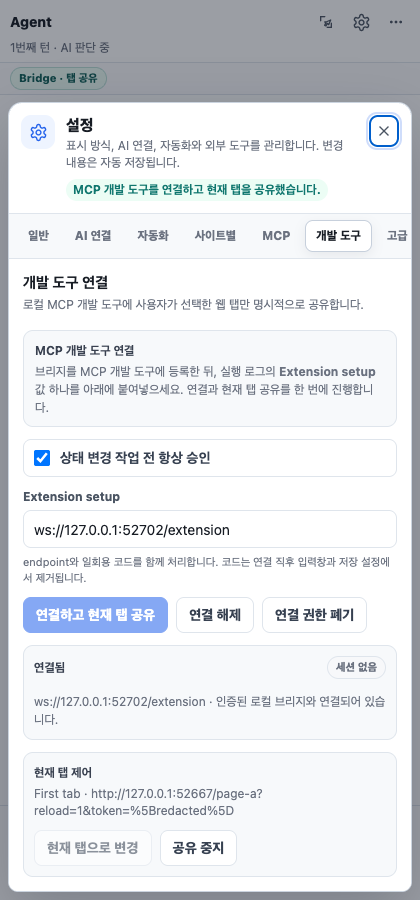
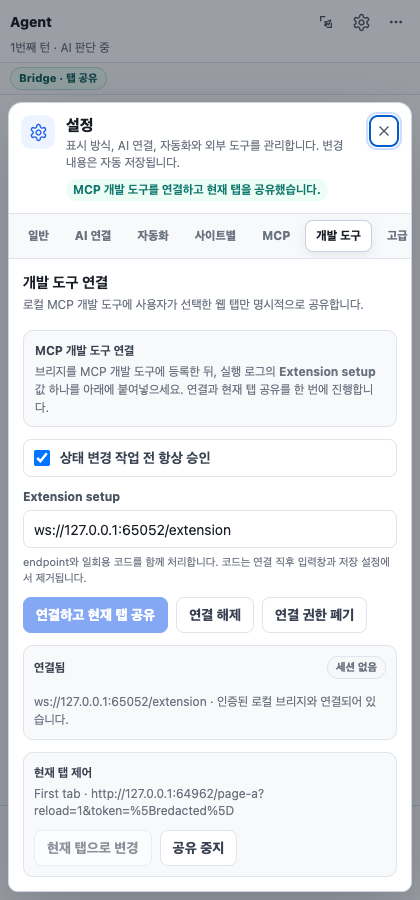
Refresh usage guide and verified captures

diff --git a/README.md b/README.md
@@ -1,10 +1,22 @@
 # My Assistant Web Plugin
 
-A Manifest V3 browser extension that observes the active page, plans the next action for a natural-language goal, executes approved tools or page actions, and verifies the resulting state.
+A Manifest V3 browser extension that turns a configured language model into a bounded browser agent. It observes the active page, plans the next action for a natural-language goal, executes approved tools or page actions, and verifies the resulting state before reporting completion.
 
 ![Agent side panel](docs/assets/agent-panel.png)
 
-Version `0.9.0` targets Chromium-based browsers version 116 or later. This repository contains a source-loaded development build rather than a store package.
+Version `0.9.0` with Bridge protocol `2.2` targets Chromium-based browsers version 116 or later. This repository contains a source-loaded development build rather than a store package. The screenshots in this README were regenerated from the current version with a temporary browser profile and local fixtures.
+
+## Choose the workflow
+
+The extension has three related but distinct integration paths:
+
+| What you want to do | Use | Where the model runs | Does it control the page? |
+| --- | --- | --- | --- |
+| Give browser tasks directly in the extension | **Built-in agent** | At the AI endpoint configured in **Settings → AI 연결** | Yes, through the extension's observe → approve → act → verify loop |
+| Let a local MCP-capable development tool use the current browser tab | **Local Bridge** | In the external development tool; visual targeting uses the extension's configured model | Yes, but only for the tab explicitly shared in **Settings → 개발 도구** |
+| Let the built-in agent call a remote tool server | **Outbound MCP client** | At the configured AI endpoint | No direct browser sharing; it calls the configured Streamable HTTP MCP tools |
+
+The Bridge is not required for normal use of the built-in agent. Conversely, enabling outbound MCP does not register this browser extension in a development tool; that is the Bridge's job.
 
 ## Why this project exists
 
@@ -46,6 +58,10 @@ Completion is not accepted from model prose alone. The runtime issues evidence i
 - Records privacy-preserving AI request audit metadata
 - Treats an HTTP success with no usable output as an explicit failure
 
+The **Context** inspector shows what the current browser observation actually contains: visible text and controls, mapped frames, nested scroll regions, visual surfaces, automation constraints, selection, and recent logs. It is useful for distinguishing a model-planning problem from a browser-permission or page-structure boundary.
+
+![Context inspector populated by the real-browser compatibility fixture](docs/assets/web-compatibility.png)
+
 ## API profiles
 
 | Profile | Purpose | Structured response strategy |
@@ -71,16 +87,49 @@ Custom JSON templates may use the following values:
 
 When `Response path` is empty, the extension dynamically inspects common response structures for usable text.
 
-## Installation
+## Quick start: built-in agent
 
-1. Clone or download the repository.
-2. Open the extension management page in a supported Chromium-based browser.
+### Requirements
+
+- Chromium-based browser version 116 or later
+- An AI endpoint compatible with one of the profiles above
+- A model that can reliably return structured JSON decisions
+- Image input support on that endpoint only when screenshot reasoning or visual-surface actions are needed
+
+Node.js is not required to load and use the extension itself. Node.js 20 or later is required for the local Bridge, tests, and documentation capture.
+
+### 1. Load the extension
+
+1. Clone or download this repository.
+2. Open the browser's extension management page.
 3. Enable developer mode.
 4. Choose **Load unpacked**.
-5. Select the repository root.
-6. Select the extension action. The default workspace is the side panel; **Settings → 일반** can switch the action to a reusable full tab.
+5. Select the repository root: the directory containing `manifest.json`.
+6. Pin or select the extension action. The default workspace opens in the side panel.
 
-In the **AI 연결** settings tab, configure the API format, endpoint, model, and authentication header. Authentication values are session-only by default and are persisted only when the user explicitly enables persistent storage.
+After pulling a newer source revision, return to the extension management page and select **Reload** for this extension. A source-loaded extension does not update itself.
+
+### 2. Connect a model
+
+Open **Settings → AI 연결** and configure:
+
+1. **API format** matching the endpoint protocol.
+2. **Endpoint URL** and **Model**.
+3. The authentication header name and value required by the endpoint.
+4. A custom request template and response path only when using **Custom JSON**.
+5. **Connection test** before starting a browser task.
+
+Authentication values are session-only by default and are persisted only when the user explicitly enables persistent storage. The endpoint must support the selected structured-response strategy. If visual targeting is expected, enable screenshots and confirm that the selected model accepts image input.
+
+### 3. Run and verify a task
+
+1. Open a normal web page and then open the extension.
+2. Enter a complete goal, including the result or evidence you expect.
+3. Review approval cards for state-changing, sensitive, or externally visible effects.
+4. Keep the target tab open while the task runs.
+5. Check the final answer and **작업 흐름** card. A task is complete only after the extension has re-observed the result and verified the returned evidence.
+
+The agent can dynamically request another visible-control window with a `discover` decision. It searches accessible labels, roles, safe attributes, and nearby table/row/form/dialog/region text locally, similar to using a targeted source search instead of loading an entire file. Only matched control descriptors are sent to the model. If the target is outside the viewport, the agent must scroll and observe again; local search does not expose offscreen or hidden content.
 
 ## Settings and workspace placement
 
@@ -129,26 +178,162 @@ This is the extension's outbound MCP client. To let an MCP-capable local develop
 
 ## External developer-tool bridge
 
-The recommended bridge path is a standard local `stdio` MCP server. The development tool starts the companion itself, so its MCP configuration does not need a separately copied URL or bearer token. Generate a client-neutral JSON entry with the actual runtime and server paths detected on the current machine:
+The Bridge lets an MCP-capable local development tool operate one browser tab that the user explicitly shares. It does not expose a raw browser-debugging port. The extension remains responsible for page observation, redaction, action validation, approval, execution, and result verification.
+
+```mermaid
+flowchart LR
+    C["MCP development tool"] -->|"stdio"| B["Local companion"]
+    B -->|"Authenticated loopback WebSocket"| E["Extension"]
+    E -->|"Observe and act"| T["One shared tab"]
+    E -->|"Approval card"| U["User"]
+    U -->|"Approve or reject"| E
+```
+
+### Bridge requirements
+
+- Node.js 20 or later
+- This extension loaded and enabled in a Chromium-based browser
+- An MCP client that can start a local `stdio` server; Streamable HTTP is available as a fallback
+- Loopback connections permitted on the machine
+
+### Recommended setup: stdio
+
+The recommended path is a standard local `stdio` MCP server. The development tool starts and stops the companion as its child process, so there is no separate daemon to launch and no bearer token to copy into the client.
+
+From the repository root:
 
 ```bash
 npm install
 npm run bridge:config
 ```
 
-`pnpm install` and `pnpm run bridge:config` are equivalent when pnpm is available. npm is fully supported; the package manifest carries the same vulnerable-transitive-version overrides as the pnpm workspace configuration.
+`npm` is fully supported. If `pnpm` is not installed, do not install it just for the Bridge; use the commands above. When pnpm is already available, `pnpm install` and `pnpm run bridge:config` are equivalent.
 
-Merge the printed server entry into the development tool's documented MCP configuration and restart that tool. On first use, the companion prints one short-lived `Extension setup` value. Paste that value into **Settings → Bridge** and select **연결하고 현재 탭 공유**. The extension strips the one-time code before saving the endpoint, and the companion remembers its selected loopback port so later launches normally reconnect without configuration changes while the browser-side credential remains available.
+`bridge:config` detects the current Node.js executable and companion file and prints a client-neutral entry:
 
-The default MCP surface is intentionally guided: `browser_begin` returns the first redacted snapshot, `browser_elements` retrieves relevant visible controls with `query`, `roles`, and `near_text` before falling back to an opaque cursor, `browser_act` submits DOM actions, `browser_visual_act` requests extension-owned targeting for a canvas or application surface, `browser_continue` handles approval polling and refreshed observations, and `browser_end` releases the tab. The built-in model uses the same local retrieval layer through a structured `discover` decision. Existing identifier-based tools remain available with `--advanced-tools`. Actions that need approval still appear in the extension, which reconstructs the exact search window and validates target preconditions immediately before an approved effect.
+```json
+{
+  "mcpServers": {
+    "my-assistant-web": {
+      "command": "<ABSOLUTE_NODE_EXECUTABLE>",
+      "args": ["<ABSOLUTE_REPOSITORY_PATH>/bridge/server.mjs", "--stdio"]
+    }
+  }
+}
+```
 
-Clients that support only Streamable HTTP can run `npm run bridge` and use the printed endpoint and bearer token. This remains the advanced fallback, not the default setup.
+The generated absolute paths are machine-specific. Merge the complete server entry into the development tool's documented MCP configuration rather than copying the placeholder example, then restart or reconnect that tool. Do not commit the generated paths.
+
+On the first Bridge call, the companion reports one short-lived value through its MCP error and standard-error log:
+
+```text
+Extension setup: ws://127.0.0.1:<PORT>/extension#pair=<ONE_TIME_CODE>
+```
+
+Finish the browser side once:
+
+1. Bring the intended normal web page to the foreground.
+2. Open the extension and choose **Settings → 개발 도구**.
+3. Paste the complete `Extension setup` value, including `#pair=...`.
+4. Select **연결하고 현재 탭 공유**.
+5. Confirm that the panel shows **연결됨** and names the intended shared tab.
+6. Retry the original Bridge call in the development tool.
+
+The one-time code is consumed during pairing and stripped before the endpoint is stored. The companion remembers its loopback port, so later launches normally reconnect without repeating these steps while the browser-side credential remains available. Sharing a different tab or stopping sharing is always an explicit extension action.
 
 | Pair and share one tab | Review a state-changing proposal |
 | --- | --- |
 | ![Bridge settings showing an authenticated local connection and one shared test tab](docs/assets/bridge-settings.png) | ![External action approval card for a non-sensitive fixture field](docs/assets/bridge-approval.png) |
 
-Both screenshots are generated by `npm run capture:docs` against a temporary browser profile and a local fixture. They contain no user session, private page, persistent credential, or machine-specific path.
+### Guided Bridge workflow
+
+The default MCP surface keeps protocol bookkeeping inside the companion:
+
+| Tool | When to use it |
+| --- | --- |
+| `browser_begin` | Start or safely resume one complete browser goal and receive the first redacted page snapshot |
+| `browser_elements` | Retrieve visible controls by label terms, roles, and nearby context, or continue an opaque result cursor |
+| `browser_act` | Propose a bounded DOM action or small action group using refs from the latest snapshot |
+| `browser_continue` | Read an approval result and receive the refreshed page; use `refresh: true` after an out-of-band page change |
+| `browser_screenshot` | Request visible pixels only when DOM observation is insufficient and visual evidence is necessary |
+| `browser_visual_act` | Describe a target inside a current canvas/application surface; the extension locates and verifies it |
+| `browser_end` | Release the shared-tab lease after completion or a terminal blocker |
+
+A reliable client loop is:
+
+1. Call `browser_begin` once with the user's full browser goal.
+2. Inspect the returned visible page state and use only refs from that result.
+3. If a visible target is absent, call `browser_elements` with a focused search before paging blindly or asking the user to click.
+4. Propose the next required effect with `browser_act`, then always call `browser_continue`.
+5. If the response is `approval_required`, let the user approve or reject it in the extension and call `browser_continue` again. Do not submit a duplicate action.
+6. Re-observe after scrolling, navigation, approval, or any other page change and use only the new refs.
+7. Verify the requested result in the refreshed page state, then call `browser_end`.
+
+The caller does not need to preserve session, observation, operation, or retry identifiers in guided mode. Those identifiers, deterministic retry protection, and page-state bindings remain inside the companion and extension.
+
+### Finding controls on dense pages
+
+The first page snapshot is deliberately bounded, but that is not an 80-element browser limit. Search currently visible controls by semantic evidence:
+
+```json
+{
+  "query": "next page",
+  "roles": ["button"],
+  "near_text": "issue grid"
+}
+```
+
+The extension searches accessible names, roles, tags, input types, placeholders, titles, safe attributes, and bounded context from the nearest visible cell, row, collection, form, dialog, or region. Only relevant descriptors cross the Bridge boundary. Each result includes `searchMatch` evidence explaining the matched fields and redacted context.
+
+When `hasMore` is true, continue the returned opaque `nextCursor` with the same search. The cursor is bound to the query, role and context filters, document and frame identities, DOM revisions, viewport, and ranked result digest. If page state changes, it resets instead of silently rebinding a ref. A target outside the viewport still requires scrolling and a fresh observation.
+
+For a canvas or application surface with no DOM ref, use `browser_visual_act` with a current surface ref and precise visible description. Do not send coordinates. The extension's configured model locates the point, an independent verifier checks the same screenshot evidence, and approval-time re-observation repeats the resolution before execution.
+
+### Approval behavior
+
+Approval of an MCP tool call in the development tool and approval of a browser effect in the extension are separate layers. The former cannot bypass extension policy.
+
+When an operation waits for approval:
+
+1. Review the exact target, action, reason, and warning in the extension.
+2. Approve or reject the proposal there.
+3. Continue the same task in the development tool.
+4. Call `browser_continue` to read the existing operation result and fresh page state.
+
+Immediately before an approved effect, the extension re-observes the document and validates URL, document identity, target fingerprint, and any structured-search window that produced the ref. A changed or rebound target becomes `stale` and is not executed.
+
+### Streamable HTTP fallback
+
+Use this only when the MCP client cannot launch a local `stdio` server:
+
+```bash
+npm run bridge
+```
+
+The command prints a loopback `/mcp` endpoint, an MCP bearer token, and a separate `Extension setup` value. Configure the token as an authorization header or through the client's supported secret environment-variable mechanism:
+
+```text
+Authorization: Bearer <MCP_BEARER_TOKEN>
+```
+
+Never put the token in the URL or commit it to the repository. The exact HTTP transport keys and configuration-file location vary by MCP client.
+
+### Bridge troubleshooting
+
+| Symptom | What to check |
+| --- | --- |
+| `pnpm: command not found` | Use `npm install` and `npm run bridge:config`; pnpm is optional. |
+| First call says the extension is not connected | Copy the complete new `Extension setup` value into **Settings → 개발 도구**, share the intended tab, and retry `browser_begin`. |
+| Setup value is invalid or expired | Restart or reconnect the MCP server to generate a new one-time value. |
+| Connected, but the wrong tab is shared | Focus the intended web page and select **현재 탭으로 변경** in the Bridge settings. |
+| Operation remains `approval_required` | Approve or reject it in the extension, then call `browser_continue`; do not call `browser_act` again for the same proposal. |
+| A ref or proposal becomes `stale` | Refresh with `browser_continue` and plan from the latest refs. |
+| A visible control is missing | Use a focused `browser_elements` query and its cursor; scroll and re-observe if the target is outside the viewport. |
+| Canvas target has no ref | Use `browser_visual_act` with the current visual-surface ref and description; screenshot input must be enabled and supported by the configured model. |
+| `uv_spawn`, `ENOENT`, or a stop-hook spawn error appears | This normally comes from the development tool's local hook process, not from the Bridge protocol. Check that hook's executable and `PATH`, or disable the broken hook; verify the Bridge separately from the extension's connected/shared indicators and actual MCP call log. |
+| Streamable HTTP returns `401` | Send the current MCP token as `Authorization: Bearer ...`; the one-time extension setup code is not that token. |
+
+All documentation screenshots are generated by `npm run capture:docs` against a temporary browser profile and local fixtures. They contain no user session, private page, persistent credential, or machine-specific filesystem path. Loopback ports and synthetic fixture URLs may vary between captures.
 
 See [Local MCP companion](docs/bridge.md) for complete startup options, portable MCP client configuration patterns, the tool workflow, security properties, and troubleshooting.
 See [Web structure compatibility](docs/web-compatibility.md) for frame, Shadow DOM, nested-scroll, visual-surface, permission, and browser-policy boundaries.

diff --git a/docs/bridge.md b/docs/bridge.md
@@ -60,7 +60,7 @@ Extension setup: ws://127.0.0.1:<PORT>/extension#pair=<ONE_TIME_CODE>
 In the extension side panel:
 
 1. Open the intended normal web page.
-2. Open **Settings → Bridge**.
+2. Open **Settings → 개발 도구**.
 3. Paste the complete `Extension setup` value.
 4. Select **연결하고 현재 탭 공유**.
 
@@ -243,7 +243,18 @@ This design does not make every page automatable. Browser permission prompts, pa
 
 ### The first browser call says the extension is not connected
 
-Copy the complete `Extension setup` value from that error or from the companion's standard-error log. Paste it into **Settings → Bridge** and select **연결하고 현재 탭 공유**, then retry `browser_begin`.
+Copy the complete `Extension setup` value from that error or from the companion's standard-error log. Paste it into **Settings → 개발 도구** and select **연결하고 현재 탭 공유**, then retry `browser_begin`.
+
+### `pnpm` is not installed
+
+Use npm:
+
+```bash
+npm install
+npm run bridge:config
+```
+
+pnpm is optional. The Bridge does not require installing or enabling it when npm is already available.
 
 ### The setup code is invalid or expired
 
@@ -251,7 +262,7 @@ The code is one-time and short-lived. Restart the MCP server process to generate
 
 ### The bridge is connected but the wrong tab is shared
 
-Bring the intended normal web page to the foreground, open **Settings → Bridge**, and select **현재 탭으로 변경**. Browser-internal and other restricted URLs cannot be shared.
+Bring the intended normal web page to the foreground, open **Settings → 개발 도구**, and select **현재 탭으로 변경**. Browser-internal and other restricted URLs cannot be shared.
 
 ### An operation remains `approval_required`
 
@@ -288,3 +299,7 @@ Confirm that the client sends the current token as `Authorization: Bearer ...`. 
 ### Tools are listed but no real browser call appears
 
 Verify that the configured MCP server is connected in the same development-tool process and that the extension badge shows a shared tab. Model-generated text that resembles a tool name is not proof of an invocation; use the client's MCP event view or the extension's external-session indicator.
+
+### The development tool reports `uv_spawn`, `ENOENT`, or a stop-hook error
+
+These errors normally come from a local hook process that the development tool tried to start, rather than from an MCP Bridge response. Check the hook command, executable permissions, absolute path, and inherited `PATH`, or temporarily disable that hook. Diagnose the Bridge independently by confirming that **Settings → 개발 도구** shows both a connected companion and the intended shared tab, then check whether an actual MCP tool call appears in the client or extension session log.